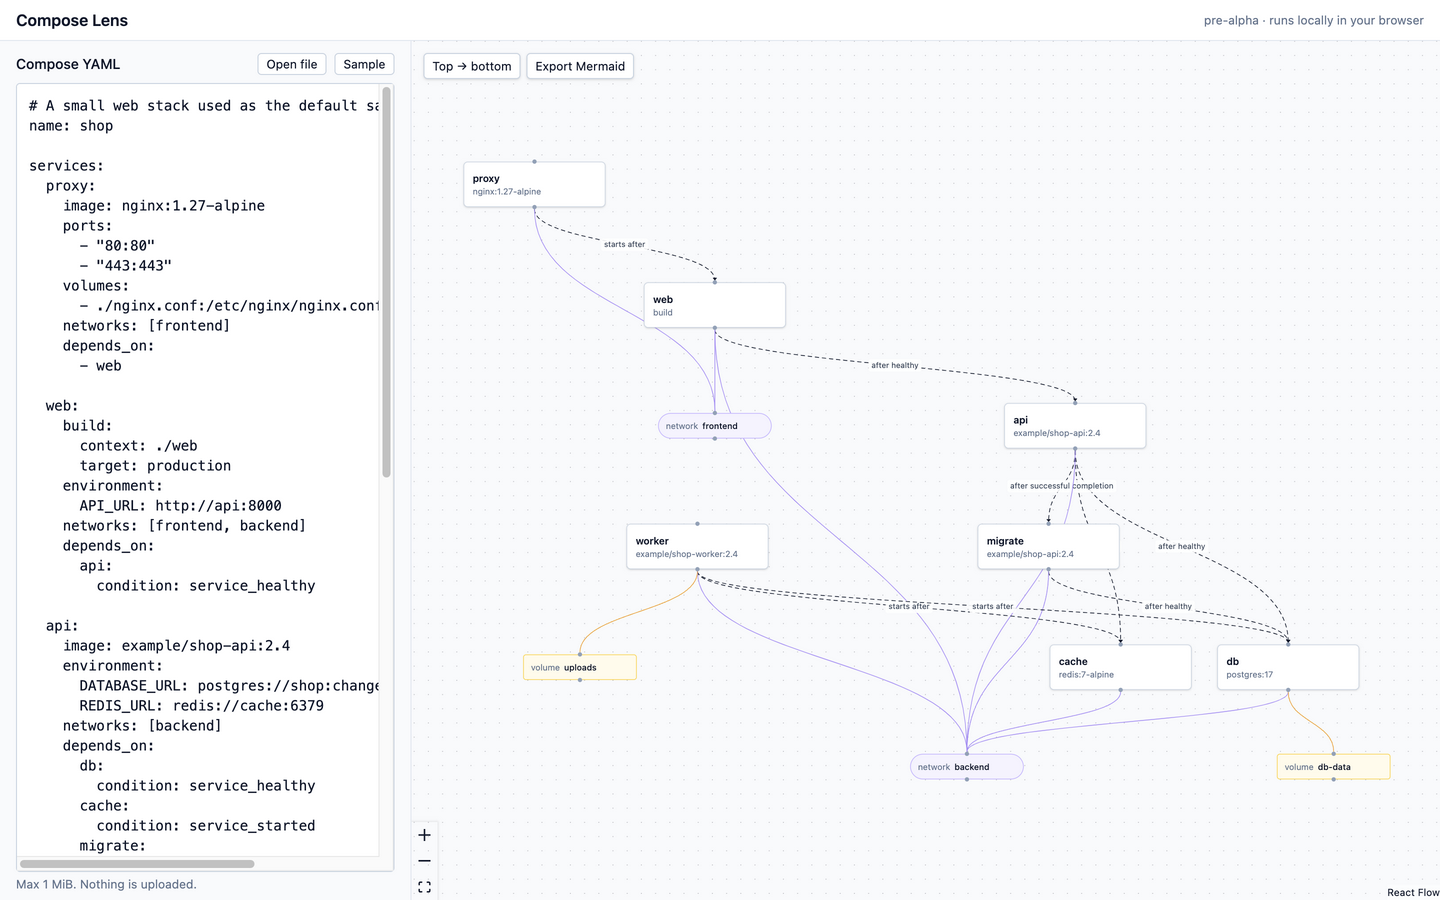
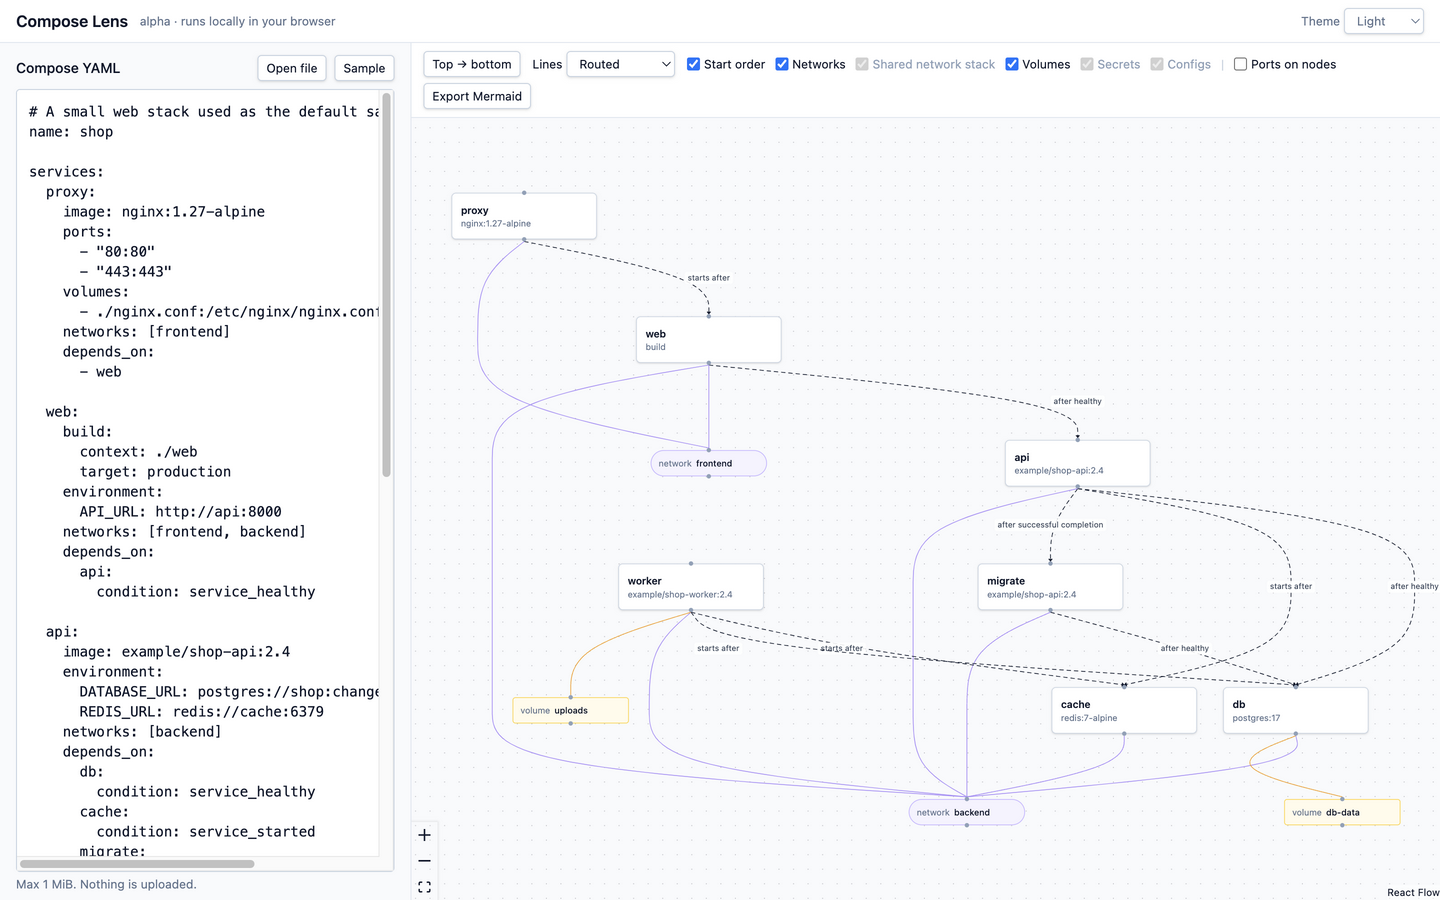
chore: release v0.1.1
- Fix graph fit padding (React Flow 13 reads a bare number as pixels)
- New README screenshot and verification entry

diff --git a/apps/web/src/GraphView.tsx b/apps/web/src/GraphView.tsx
@@ -258,7 +258,8 @@ function toFlow(graph: ComposeGraph, model: ComposeModel, o: FlowOptions): { nod
   return { nodes, edges };
 }
 
-const FIT = { padding: 0.12, maxZoom: 1.2 };
+// Padding is in pixels (a bare number), leaving room for edge labels outside node bounds.
+const FIT = { padding: "40px", maxZoom: 1.2 } as const;
 
 /**
  * Fits the graph after each layout and whenever the pane is resized. The

diff --git a/docs/verification.md b/docs/verification.md
@@ -2,6 +2,23 @@
 
 Checks from PRD §12 that CI can't run. Re-run them before each release and add a new entry.
 
+## 2026-11-17 — v0.1.1 candidate (commit `fc27847` plus the fit-padding fix)
+
+**Environment:** Orca embedded browser (Chromium 150.0.7871.250, macOS), `vite preview` of the production build and the dev server.
+
+| Check | Result |
+|---|---|
+| Relation checkboxes (start order, networks, shared network stack, volumes, secrets, configs) | Pass. Hidden resources and edges disappear, the layout re-runs, and "Hidden: …" is shown. Groups absent from the file are disabled |
+| Mermaid export with relations hidden | Pass. Matches the view, notes hidden relations in a comment, panel says so |
+| Line styles (routed, right angles, curved, straight) | Pass. Routed lines follow dagre's paths around nodes |
+| Light, dark, and system theme | Pass. Graph, panels, problems list, and export panel readable in both |
+| Ports on nodes | Pass |
+| Secrets and configs (names only), network aliases and static IPs, URL token in `build` | Pass. No `S3CRET` outside the input editor; `build` shows `https://***@github.com/…` |
+| Auto-fit after layout and resize | Pass after fixing the padding unit (React Flow 13 reads a bare number as pixels) |
+| Production CSP meta, network requests, console | Pass. Only the app's own HTML, JS, and CSS; no console entries |
+
+**Not tested yet:** Firefox and Safari.
+
 ## 2026-11-17 — v0.1.0 candidate (commit `9bc6c62`, Mermaid colors updated after)
 
 **Environment:** Orca embedded browser (Chromium 150.0.7871.250, macOS). The deployed app at https://sik-yong.github.io/compose-lens/ and a local `vite preview` of the production build.

diff --git a/README.en.md b/README.en.md
@@ -10,7 +10,7 @@ Paste or drop a `compose.yaml` to see its services, networks, and volumes as a g
 
 ![Compose Lens: a Compose YAML editor on the left and a graph of services, networks, and volumes on the right](docs/images/screenshot.png)
 
-> **Status: alpha (v0.1.0).** What's supported is in the [support matrix](docs/support-matrix.md); the design is in the [PRD](docs/PRD.md) (Korean).
+> **Status: alpha (v0.1.1).** What's supported is in the [support matrix](docs/support-matrix.md); the design is in the [PRD](docs/PRD.md) (Korean).
 
 ## Features
 

diff --git a/README.md b/README.md
@@ -10,7 +10,7 @@
 
 ![Compose Lens 화면: 왼쪽은 Compose YAML 편집기, 오른쪽은 서비스·네트워크·볼륨 그래프](docs/images/screenshot.png)
 
-> **상태: alpha (v0.1.0).** 지원 범위는 [support matrix](docs/support-matrix.md)(영문)에, 설계는 [PRD](docs/PRD.md)에 있습니다.
+> **상태: alpha (v0.1.1).** 지원 범위는 [support matrix](docs/support-matrix.md)(영문)에, 설계는 [PRD](docs/PRD.md)에 있습니다.
 
 ## 기능
 
